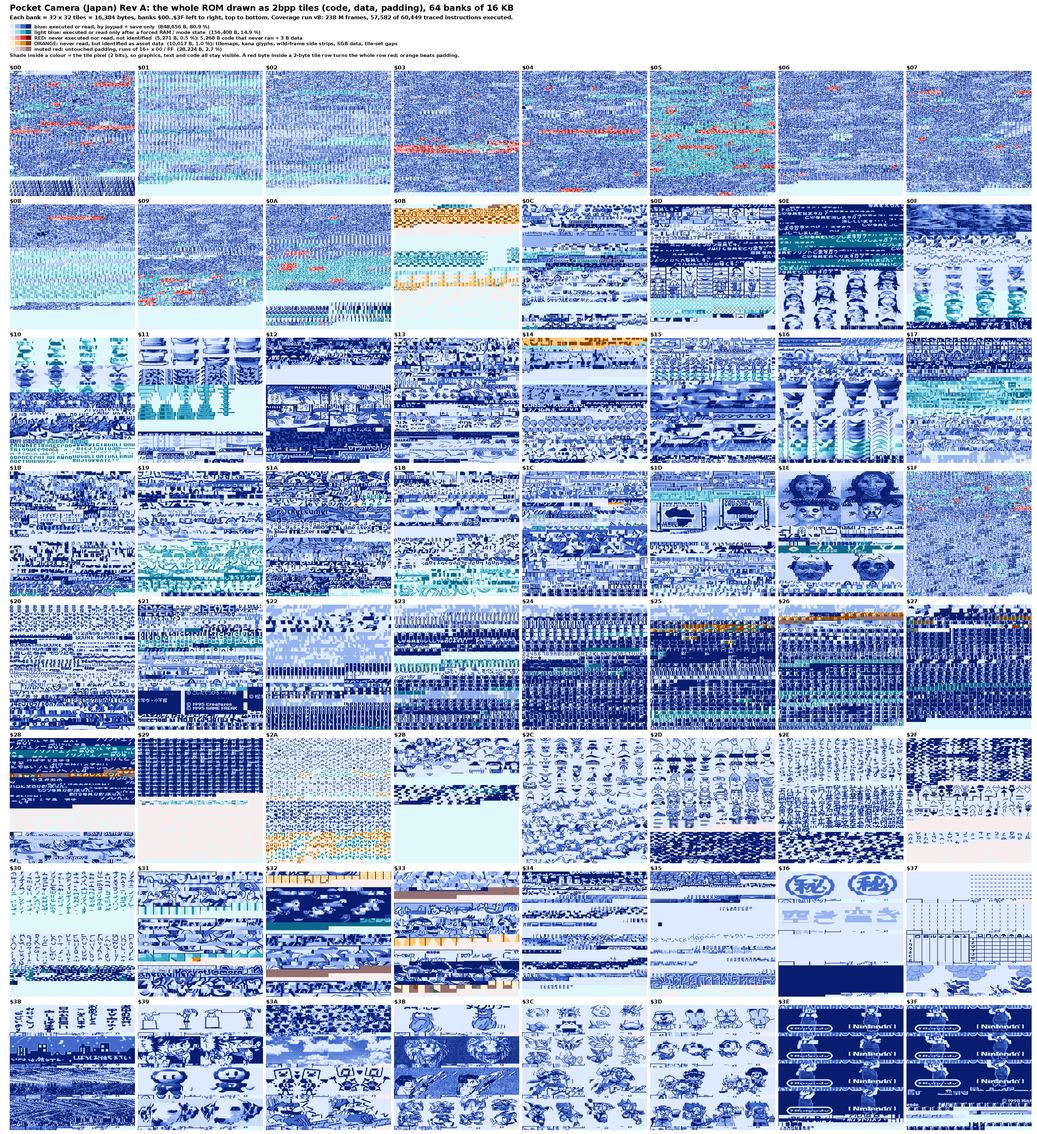
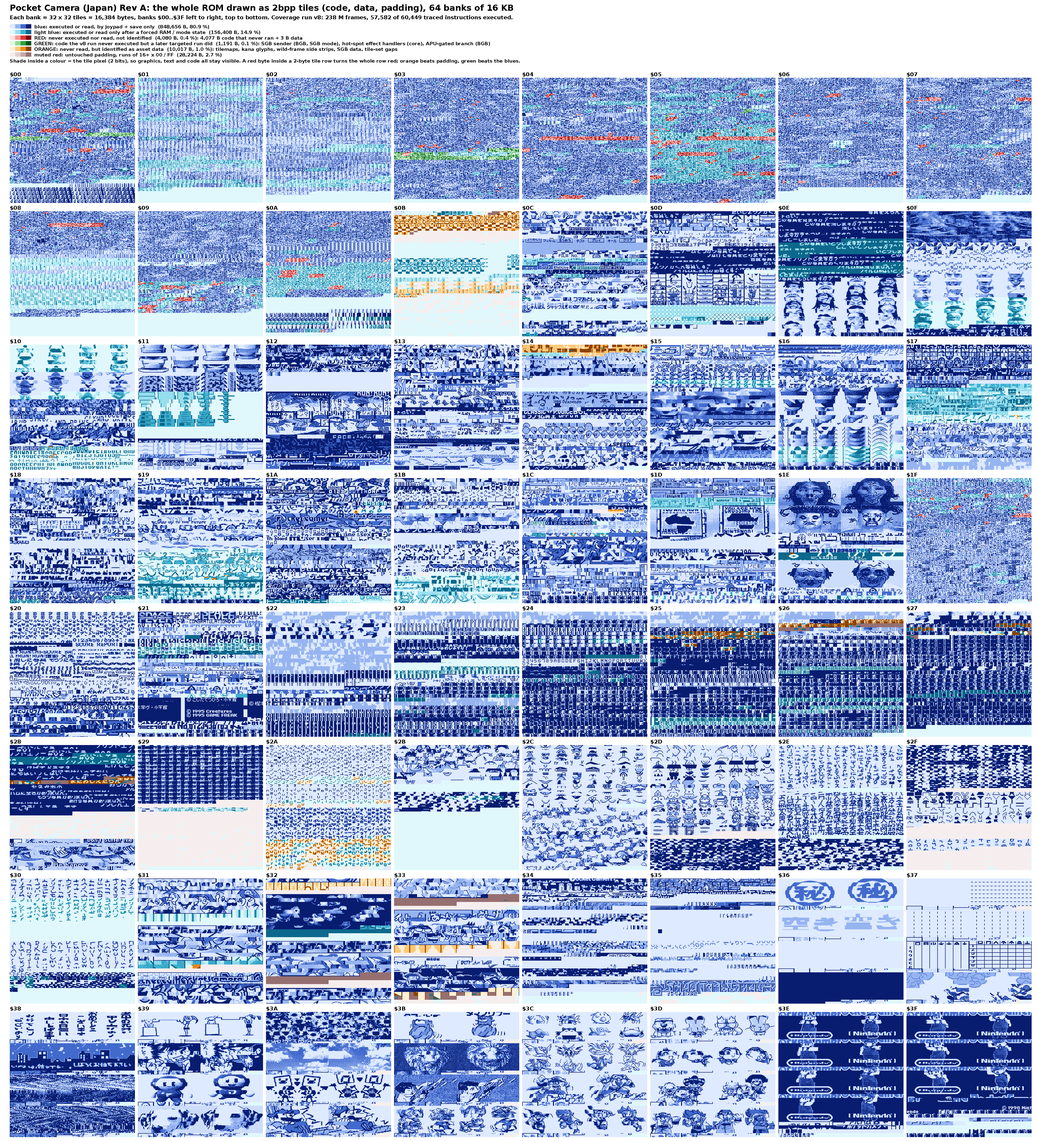
Show which never-run code later runs executed: green class on the map, README 16.14
"Never executed" in the v8 merge is not "unreachable". 1,191 of the 5,268 B of
class N were executed by runs made after the merge:

* BGB with SystemMode=2: the whole SGB sender 00:1D38-1EA3 (346 B, 50 block
  heads of trace_report.json).
* BGB, music-editor corpus: the six APU-gated heads 05:517D-519B, 05:5249 (37 B).
* the core, hotspot_effects.py: hot spot armed by a WRAM poke, effect values
  0-15 (808 B in 03:657F-69F4). The tool now writes the executed ranges.

The printer runs of 17.1-17.6 hit no class-N byte. witness_map.py writes
assets/witness_jp.csv (11 ranges, evidence C); rom_reach_map.py draws them in
green; the red falls from 5,271 B to 4,080 B. README 16.14 gives what is left
by bank and the largest clusters, and the next steps (static dispatch-domain
proof for the never-selected slots, targeted runs gate by gate).

Claude-Session: https://claude.ai/code/session_01FyVRmHfUqNeQ8ayUFB5i6z

diff --git a/tcrf_check/tools/rom_reach_map.py b/tcrf_check/tools/rom_reach_map.py
@@ -2,8 +2,9 @@
 """Whole JP ROM as 2bpp tiles (code and everything else), coloured by what the v8 coverage run reached.
 blue = executed or read by a run (dark: joypad + save only; light: only after a forced RAM / mode state), red = never executed nor read
 (including traced code that never ran), orange = never read but identified as asset data (assets/asset_map_jp.csv, evidence I or C per row),
+green = code the v8 run never executed but a later targeted run did (assets/witness_jp.csv: BGB in SGB mode, the hot-spot effect test, the APU-gated branch),
 muted red = untouched padding (runs >= 16 of 00 / FF).
-usage: rom_reach_map.py OUT.png [--rom pocketcamera_jp.gb] [--map coverage/results/report_v8/rom_map.csv] [--assets assets/asset_map_jp.csv | none]
+usage: rom_reach_map.py OUT.png [--rom pocketcamera_jp.gb] [--map coverage/results/report_v8/rom_map.csv] [--assets assets/asset_map_jp.csv | none] [--witness assets/witness_jp.csv | none]
 The ROM is not in the repository (md5 fdcfe686cf4df461e870b6e53b2b5a8b); the byte-class map is (written by coverage/tools/rom_map.py from the v8 merged coverage)."""
 import sys, os, csv
 import numpy as np
@@ -14,7 +15,7 @@ def opt(n, d):
     if n in a: i = a.index(n); v = a[i + 1]; del a[i:i + 2]; return v
     return d
 ROM = opt('--rom', 'pocketcamera_jp.gb'); MAP = opt('--map', os.path.join(REPO, 'coverage', 'results', 'report_v8', 'rom_map.csv'))
-ASSETS = opt('--assets', os.path.join(REPO, 'assets', 'asset_map_jp.csv')); OUT = a[0]
+ASSETS = opt('--assets', os.path.join(REPO, 'assets', 'asset_map_jp.csv')); WIT = opt('--witness', os.path.join(REPO, 'assets', 'witness_jp.csv')); OUT = a[0]
 rom = np.frombuffer(open(ROM, 'rb').read(), np.uint8); N = len(rom)
 cls = np.zeros(N, np.uint8)
 for r in csv.DictReader(open(MAP)):
@@ -28,7 +29,13 @@ while i < N:
     if j - i >= 16 and rb[i] in (0, 255): pad[i:j] = True
     i = j
 C = lambda ch: cls == ord(ch)
-red = C('N') | C('U'); forced = C('F') | C('r'); organic = C('C') | C('R') | C('T')
+wit = np.zeros(N, bool)         # class N bytes that a later targeted run executed (assets/witness_jp.csv)
+if WIT != 'none' and os.path.exists(WIT):
+    for r in csv.DictReader(open(WIT)):
+        b = int(r['bank'], 16); o1 = b * 0x4000 + (int(r['start'], 16) - 0x4000 if b else int(r['start'], 16)); o2 = b * 0x4000 + (int(r['end'], 16) - 0x4000 if b else int(r['end'], 16))
+        wit[o1:o2 + 1] = True
+wit &= C('N')
+red = (C('N') & ~wit) | C('U'); forced = C('F') | C('r'); organic = C('C') | C('R') | C('T')
 # bytes of the never-read data that assets/asset_map_jp.csv labels (padding stays padding)
 ident = np.zeros(N, bool)
 if ASSETS != 'none' and os.path.exists(ASSETS):
@@ -36,10 +43,10 @@ if ASSETS != 'none' and os.path.exists(ASSETS):
         b = int(r['bank'], 16); o1 = b * 0x4000 + (int(r['start'], 16) - 0x4000 if b else int(r['start'], 16)); o2 = b * 0x4000 + (int(r['end'], 16) - 0x4000 if b else int(r['end'], 16))
         ident[o1:o2 + 1] = True
 ident &= C('U') & ~pad
-# category per byte: 0 organic blue, 1 forced-only light blue, 2 red, 3 untouched padding, 4 never read but identified as asset data (orange)
-cat = np.zeros(N, np.uint8); cat[forced] = 1; cat[red] = 2; cat[C('U') & pad] = 3; cat[ident] = 4
-# category per 2-byte tile row: the worst of the two bytes (red > identified > padding > forced > organic) so that a red byte is never hidden
-RANK = np.array([0, 1, 4, 2, 3]); BACK = np.array([0, 1, 3, 4, 2])        # category -> rank, rank -> category
+# category per byte: 0 organic blue, 1 forced-only light blue, 2 red, 3 untouched padding, 4 never read but identified as asset data (orange), 5 executed by a later targeted run (green)
+cat = np.zeros(N, np.uint8); cat[forced] = 1; cat[red] = 2; cat[C('U') & pad] = 3; cat[ident] = 4; cat[wit] = 5
+# category per 2-byte tile row: the worst of the two bytes (red > identified > padding > green > forced > organic) so that a red byte is never hidden
+RANK = np.array([0, 1, 5, 3, 4, 2]); BACK = np.array([0, 1, 5, 3, 4, 2])        # category -> rank, rank -> category
 rowcat = BACK[np.maximum(RANK[cat[0::2]], RANK[cat[1::2]])].reshape(-1, 8)  # (tiles, 8 rows)
 t = rom.reshape(-1, 8, 2); lo = t[:, :, 0]; hi = t[:, :, 1]
 sh = np.zeros((len(t), 8, 8), np.uint8)
@@ -50,11 +57,12 @@ FAM = [[(222, 234, 255), (150, 180, 240), (66, 106, 205), (8, 28, 112)],        
        [(224, 248, 252), (150, 222, 238), (64, 176, 208), (12, 104, 140)],      # forced only: light blue / cyan
        [(255, 224, 224), (248, 150, 150), (222, 52, 52), (120, 0, 0)],          # never executed nor read: red
        [(246, 238, 238), (226, 206, 206), (198, 168, 168), (150, 112, 112)],    # untouched padding: muted red
-       [(255, 240, 214), (252, 200, 120), (240, 140, 20), (140, 66, 0)]]        # never read, identified as asset data: orange
-BG, INK = 20, 21
+       [(255, 240, 214), (252, 200, 120), (240, 140, 20), (140, 66, 0)],        # never read, identified as asset data: orange
+       [(226, 246, 226), (150, 214, 150), (48, 160, 64), (0, 84, 24)]]          # never run by v8, run by a later targeted run: green
+BG, INK = 24, 25
 pal = [c for f in FAM for c in f] + [(255, 255, 255), (0, 0, 0)]
 banks = N // 0x4000; per = pix.reshape(banks, 32, 32, 8, 8).transpose(0, 1, 3, 2, 4).reshape(banks, 256, 256)
-S = 2; GX, GY, PADX, PADY, TOP, LEFT = 12, 34, 12, 34, 262, 40
+S = 2; GX, GY, PADX, PADY, TOP, LEFT = 12, 34, 12, 34, 290, 40
 W = LEFT + 8 * (256 * S + GX) + 10; H = TOP + 8 * (256 * S + GY) + 10
 canvas = np.full((H, W), BG, np.uint8)
 for b in range(banks):
@@ -69,21 +77,22 @@ def font(sz):
 f1, f2, f3 = font(34), font(22), font(19)
 n = lambda m: int(m.sum())
 tot = N; nonpad = tot - n(pad)
-r_pad = n(C('U') & pad); r_code = n(C('N')); r_ident = n(ident); r_bright = n(red) - r_pad - r_ident
+r_pad = n(C('U') & pad); r_code = n(C('N') & ~wit); r_ident = n(ident); r_wit = n(wit); r_bright = n(red) - r_pad - r_ident
 d.text((LEFT, 12), 'Pocket Camera (Japan) Rev A: the whole ROM drawn as 2bpp tiles (code, data, padding), 64 banks of 16 KB', fill=INK, font=f1)
 d.text((LEFT, 58), 'Each bank = 32 x 32 tiles = 16,384 bytes, banks $00..$3F left to right, top to bottom. Coverage run v8: 238 M frames, 57,582 of 60,449 traced instructions executed.', fill=INK, font=f2)
 items = [(0, 'blue: executed or read, by joypad + save only  (%s B, %.1f %%)' % (format(n(organic), ','), 100 * n(organic) / tot)),
          (1, 'light blue: executed or read only after a forced RAM / mode state  (%s B, %.1f %%)' % (format(n(forced), ','), 100 * n(forced) / tot)),
          (2, 'RED: never executed nor read, not identified  (%s B, %.1f %%): %s B code that never ran + %s B data' % (format(r_bright, ','), 100 * r_bright / tot, format(r_code, ','), format(r_bright - r_code, ','))),
+         (5, 'GREEN: code the v8 run never executed but a later targeted run did  (%s B, %.1f %%): SGB sender (BGB, SGB mode), hot-spot effect handlers (core), APU-gated branch (BGB)' % (format(r_wit, ','), 100 * r_wit / tot)),
          (4, 'ORANGE: never read, but identified as asset data  (%s B, %.1f %%): tilemaps, kana glyphs, wild-frame side strips, SGB data, tile-set gaps' % (format(r_ident, ','), 100 * r_ident / tot)),
          (3, 'muted red: untouched padding, runs of 16+ x 00 / FF  (%s B, %.1f %%)' % (format(r_pad, ','), 100 * r_pad / tot))]
 for k, (c, txt) in enumerate(items):
     y = 98 + k * 23
     for s in range(4): d.rectangle([LEFT + s * 22, y + 1, LEFT + s * 22 + 21, y + 18], fill=c * 4 + s)
     d.text((LEFT + 100, y), txt, fill=INK, font=f3)
-d.text((LEFT, 98 + 5 * 23 + 2), 'Shade inside a colour = the tile pixel (2 bits), so graphics, text and code all stay visible. A red byte inside a 2-byte tile row turns the whole row red; orange beats padding.', fill=INK, font=f3)
+d.text((LEFT, 98 + 6 * 23 + 2), 'Shade inside a colour = the tile pixel (2 bits), so graphics, text and code all stay visible. A red byte inside a 2-byte tile row turns the whole row red; orange beats padding, green beats the blues.', fill=INK, font=f3)
 for b in range(banks):
     gx = LEFT + (b % 8) * (256 * S + GX); gy = TOP + (b // 8) * (256 * S + GY)
     d.text((gx, gy + 1), '$%02X' % b, fill=INK, font=f2)
 img.save(OUT, optimize=True)
-print(img.size, os.path.getsize(OUT), 'red', r_bright, 'identified', r_ident, 'organic', n(organic), 'forced', n(forced), 'pad red', r_pad)
+print(img.size, os.path.getsize(OUT), 'red', r_bright, 'identified', r_ident, 'witnessed', r_wit, 'organic', n(organic), 'forced', n(forced), 'pad red', r_pad)

diff --git a/tcrf_check/tools/witness_map.py b/tcrf_check/tools/witness_map.py
@@ -1,0 +1,59 @@
+#!/usr/bin/env python3
+"""Code that the v8 coverage run never executed (class N) but a later targeted run did: writes assets/witness_jp.csv.
+usage: witness_map.py OUT.csv [--map coverage/results/report_v8/rom_map.csv] [--rom pocketcamera_jp.gb]
+Witnesses (all outside the v8 merge):
+  sgb      BGB with SystemMode=2 (Super Game Boy): the 50 block heads of the SGB sender 00:1D38-1EA0 (tcrf_check/assets/bgb_retrace/trace_report.json, "sgb_only_heads"; README 17.7)
+  apu      BGB, music-editor corpus: the 6 heads my core never executed because it does not emulate NR52 / NR12 ("contradictions"; README 17.7)
+  hotspot  my core, tcrf_check/tools/hotspot_effects.py: hot spot 0 of the displayed photo armed by a WRAM poke of the mirror $D643-$D65C, then a real A press, for the 16 effect values;
+           the bytes executed beyond the replay are in tcrf_check/assets/hotspot_effects/exec_ranges.csv (README 13.4 point 5, 16.8)
+A BGB head hit means the whole block ran (blocks.py: straight line up to the next head or terminator). Only bytes of class N are written; the printer runs of 17.1-17.6
+(tcrf_check/assets/bgb_retrace/printer_heads) hit none."""
+import sys, os, csv, json
+import numpy as np
+HERE = os.path.dirname(os.path.abspath(__file__)); REPO = os.path.dirname(os.path.dirname(HERE)); sys.path.insert(0, HERE)
+import blocks as B
+a = sys.argv[1:]
+def opt(n, d):
+    if n in a: i = a.index(n); v = a[i + 1]; del a[i:i + 2]; return v
+    return d
+MAP = opt('--map', os.path.join(REPO, 'coverage', 'results', 'report_v8', 'rom_map.csv')); ROM = opt('--rom', 'pocketcamera_jp.gb'); OUT = a[0]
+rom = open(ROM, 'rb').read(); trace = json.load(open(os.path.join(REPO, 'wram', 'trace_jp_v3.json')))
+heads, members, code = B.blocks(rom, trace)
+N = 1 << 20
+def flat(b, ad): return ad if (b == 0 and ad < 0x4000) else b * 0x4000 + ad - 0x4000
+cls = np.zeros(N, np.uint8)
+for r in csv.DictReader(open(MAP)):
+    cls[flat(int(r['bank'], 16), int(r['start'], 16)):][:int(r['length'])] = ord(r['class'])
+isN = cls == ord('N')
+rep = json.load(open(os.path.join(REPO, 'tcrf_check', 'assets', 'bgb_retrace', 'trace_report.json')))
+def from_heads(hs):
+    m = np.zeros(N, bool)
+    for k in hs:
+        b, ad = k.split(':'); key = (int(b, 16), int(ad, 16))
+        assert key in members, k
+        for bb, aa, ln in members[key]: m[flat(bb, aa):flat(bb, aa) + ln] = True
+    return m
+W = [('sgb', 'BGB SystemMode=2 (Super Game Boy): block heads of the SGB sender', 'C', from_heads(rep['sgb_only_heads']['heads'])),
+     ('apu', 'BGB, music-editor corpus: branch on NR52 bit 0 / NR12 that my core cannot take', 'C', from_heads(list(rep['contradictions'])))]
+hm = np.zeros(N, bool)
+for r in csv.DictReader(open(os.path.join(REPO, 'tcrf_check', 'assets', 'hotspot_effects', 'exec_ranges.csv'))):
+    o1 = flat(int(r['bank'], 16), int(r['start'], 16)); o2 = flat(int(r['bank'], 16), int(r['end'], 16)); hm[o1:o2 + 1] = True
+W.append(('hotspot', 'my core, hot spot armed by a WRAM poke + real A press, effect values 0-15', 'C', hm))
+rows = []; seen = np.zeros(N, bool)
+for name, desc, ev, m in W:
+    m = m & isN & ~seen; seen |= m
+    idx = np.flatnonzero(m); runs = []
+    for o in idx:
+        if runs and runs[-1][1] == o: runs[-1][1] = o + 1
+        else: runs.append([o, o + 1])
+    for s, e in runs:
+        for lo, hi in ((s, e),):
+            b = lo >> 14 if lo >= 0x4000 else 0
+            while lo < hi:
+                top = min(hi, (b + 1) * 0x4000) if b else min(hi, 0x4000)
+                ad = lo if b == 0 else 0x4000 + (lo & 0x3FFF)
+                rows.append(['%02X' % b, '%04X' % ad, '%04X' % (ad + top - lo - 1), top - lo, name, ev, desc]); lo = top; b += 1 if lo >= 0x4000 else 0
+    print('%-8s %5d bytes of class N  (%s)' % (name, int(m.sum()), desc))
+with open(OUT, 'w', newline='') as fh:
+    w = csv.writer(fh, lineterminator='\n'); w.writerow(['bank', 'start', 'end', 'bytes', 'witness', 'evidence', 'description']); w.writerows(rows)
+print('class N bytes in the v8 map: %d, with a witness: %d, left: %d; %d ranges -> %s' % (int(isN.sum()), int(seen.sum()), int(isN.sum() - seen.sum()), len(rows), OUT))

diff --git a/tcrf_check/tools/hotspot_effects.py b/tcrf_check/tools/hotspot_effects.py
@@ -12,6 +12,8 @@ corpus = sys.argv[2] if len(sys.argv) > 2 else 'unlock_runs/f1_organic/corpus.js
 C = lib.Corpus(corpus); i = C.best((0x0C, 3)); g.set_organic(1); C.replay(i); g.run(30)
 print('state', lib.cur(), 'pointer D667/D668 =', g.peek(0xD667), g.peek(0xD668), 'D500', g.peek(0xD500))
 snap = g.snapshot(); EX = g.cov_exec(); OEX = g.org_exec()
+import numpy as np
+EX0 = np.array(EX, copy=True) != 0      # executed before the test (the replay of the corpus entry)
 H = [0x6625, 0x6642, 0x66AF, 0x66DC, 0x67D5, 0x6801, 0x6838, 0x68A4, 0x6901, 0x6983]
 def off(a): return 3 * 0x4000 - 0x4000 + a
 res = {}
@@ -30,3 +32,13 @@ for k in range(16):
     res[k] = dict(mode_state=list(lib.cur()), newly=new)
     Image.fromarray(R.screen(g)).save('%s/effect_%02d.png' % (out, k))
 json.dump(res, open(out + '/results.json', 'w'))
+# bytes this test executed beyond the replay, as ranges (the core marks every byte of an executed instruction): witness_map.py reads them
+new = np.flatnonzero((np.array(EX, copy=True) != 0) & ~EX0); rows = []
+for o in new:
+    b = int(o) >> 14 if o >= 0x4000 else 0; a = int(o) if b == 0 else 0x4000 + (int(o) & 0x3FFF)
+    if rows and rows[-1][0] == b and rows[-1][2] == a - 1: rows[-1][2] = a
+    else: rows.append([b, a, a])
+with open(out + '/exec_ranges.csv', 'w') as fh:
+    fh.write('bank,start,end\n')
+    for b, a, e in rows: fh.write('%02X,%04X,%04X\n' % (b, a, e))
+print('executed beyond the replay: %d bytes in %d ranges -> exec_ranges.csv' % (len(new), len(rows)))

diff --git a/README.md b/README.md
@@ -15,7 +15,7 @@ identical", was wrong and is withdrawn). The Zelda-edition ROM was not examined.
 
 ![](/jp_rom_reachability_map.png)
 
-*What the map shows:* the whole Japanese ROM drawn as 2bpp tiles (64 banks of 32 × 32 tiles; code, data and padding alike). Blue = executed or read by the v8 coverage run (dark: joypad and save only, light: only after a forced RAM or mode state), **red = never executed nor read and not identified** (5,271 bytes, 0.5 %: 5,268 B of code that never ran + 3 B), **orange = never read but identified as asset data** (10,017 B, 1.0 %: wild-frame side strips, kana glyphs, tilemaps, SGB data, tile-set gaps; §16.13, `assets/asset_map_jp.csv`, evidence I except the wild-frame strips and the SGB border data, C), muted red = untouched padding (28,224 B). Generated by `tcrf_check/tools/rom_reach_map.py` from `coverage/results/report_v8/rom_map.csv` and `assets/asset_map_jp.csv` (§13, §15.1, §16.13); in the earlier version of this map all 15,288 B were red. There is no equivalent run for the international ROM yet: its code is a different build (§16.1).
+*What the map shows:* the whole Japanese ROM drawn as 2bpp tiles (64 banks of 32 × 32 tiles; code, data and padding alike). Blue = executed or read by the v8 coverage run (dark: joypad and save only, light: only after a forced RAM or mode state), **red = never executed nor read and not identified** (4,080 bytes, 0.4 %: 4,077 B of code that no run has executed + 3 B), **green = code the v8 run never executed but a later targeted run did** (1,191 B, 0.1 %: the SGB sender in BGB, the hot-spot effect handlers, the APU-gated branch; §16.14, `assets/witness_jp.csv`, C), **orange = never read but identified as asset data** (10,017 B, 1.0 %: wild-frame side strips, kana glyphs, tilemaps, SGB data, tile-set gaps; §16.13, `assets/asset_map_jp.csv`, evidence I except the wild-frame strips and the SGB border data, C), muted red = untouched padding (28,224 B). Generated by `tcrf_check/tools/rom_reach_map.py` from `coverage/results/report_v8/rom_map.csv`, `assets/asset_map_jp.csv` and `assets/witness_jp.csv` (§13, §15.1, §16.13, §16.14); in the earlier version of this map all 15,288 B were red. There is no equivalent run for the international ROM yet: its code is a different build (§16.1).
 
 ## Contents
 
@@ -36,7 +36,7 @@ identical", was wrong and is withdrawn). The Zelda-edition ROM was not examined.
 | 13 | **Emulator coverage run** — what executes, what never does and why, the 14 unreferenced data banks, dead-root verdict |
 | 14 | **Game Link Cable photo exchange** — byte-level protocol sniffed on two emulated cameras, roles, commands, thumbnails, abort/cancel/time-out, and the SRAM signature of an exchanged photo |
 | 15 | **TCRF and unlock cross-check** — what the unlocking saves reach (credits, CoroCoro, Album B, stamps, mini-games), the documented-content checklist (54 items), re-classification of code that never ran (the hold-A stamp branch, the hot-spot effect handlers), mode names from screenshots, asset inventory |
-| 16 | **Menu names, the international ROM, BGB cross-validation** — the 34 modes named from the screens (Japanese / international / the Funtography guide), the mirrored main menu, the two ROMs are different builds, Album B (8 vs 14 conditions) and the CoroCoro flag in the international ROM, BGB results (sweep, credits gate, tag, Pokémon pages, hold-A, hot-spots, link, gender bits), hot-spot effect behaviour, the 20 Pokémon stamps, the five Funtography flowcharts walked in BGB, the CoroCoro content on the international build (§16.12), **what the never-read data is** (§16.13: wild-frame side strips, glyph banks, tilemaps, the SGB border rebuilt from bank `$0B` and matched to BGB; the orange of the map) |
+| 16 | **Menu names, the international ROM, BGB cross-validation** — the 34 modes named from the screens (Japanese / international / the Funtography guide), the mirrored main menu, the two ROMs are different builds, Album B (8 vs 14 conditions) and the CoroCoro flag in the international ROM, BGB results (sweep, credits gate, tag, Pokémon pages, hold-A, hot-spots, link, gender bits), hot-spot effect behaviour, the 20 Pokémon stamps, the five Funtography flowcharts walked in BGB, the CoroCoro content on the international build (§16.12), **the code that later runs executed and what is left** (§16.14), **what the never-read data is** (§16.13: wild-frame side strips, glyph banks, tilemaps, the SGB border rebuilt from bank `$0B` and matched to BGB; the orange of the map) |
 | 17 | **Printing in BGB** — a printer helper for BGB (link protocol, status model), the print screens (single photo, the Start option = the 「Camera コメント」 card with its tag-field mapping, several photos, the TRIPY-H score), and the **BGB re-trace of the coverage run** (81 % of the core's blocks re-hit, SGB-only and APU-gated blocks, where the two disagree) |
 | Appendix | Tools |
 
@@ -3173,7 +3173,7 @@ Table (one row per box of the charts; the node ids are the keys of `assets/guide
 
 **The owner's readings (Sunday 2026-10-11), recorded as I until checked:** (1) banks `$31`, `$32`, `$33` are pure assets, the red areas are the lateral borders of the wild frames just above, and the cause is a quirk of my printer emulator code; (2) banks `$28` and `$2A` are pure assets of the Japanese alphabet, with the same function for the unknown tiles as for the known assets around them; (3) the unknown areas of banks `$10`, `$14`, `$17`, `$19`, `$1A`, `$1C`, `$1E` are assets too; (4) the untouched parts of banks `$25`, `$26`, `$27` are probably tilemaps; (5) bank `$0B` is Super Game Boy data.
 
-**Result: all five hold** (with two nuances: `$2A` also holds Latin letters, and the second half of `$28` is the credits ending picture, which is read). The 10,020 non-padding bytes of *data* that the v8 run never read are now labelled, 10,017 of them in `assets/asset_map_jp.csv` (95 ranges, written by `tcrf_check/tools/asset_map_build.py`); the 3 left are inside the code bank `$1F`. On the map they are orange; the **red that remains is 5,271 B** (5,268 B of code that never ran, §13, + those 3 B). "Identified" means: *what the bytes are*, not *that the game can show them*. Evidence is **I** (rendering, structure, community sheets) except for the wild-frame strips and the SGB border data (**C**, BGB).
+**Result: all five hold** (with two nuances: `$2A` also holds Latin letters, and the second half of `$28` is the credits ending picture, which is read). The 10,020 non-padding bytes of *data* that the v8 run never read are now labelled, 10,017 of them in `assets/asset_map_jp.csv` (95 ranges, written by `tcrf_check/tools/asset_map_build.py`); the 3 left are inside the code bank `$1F`. On the map they are orange; the **red that remained was 5,271 B** (5,268 B of code that never ran, §13, + those 3 B; §16.14 takes 1,191 B of the code out of it). "Identified" means: *what the bytes are*, not *that the game can show them*. Evidence is **I** (rendering, structure, community sheets) except for the wild-frame strips and the SGB border data (**C**, BGB).
 
 | region (never-read, non-padding bytes) | bytes | what it is | tag |
 |---|---|---|---|
@@ -3235,6 +3235,23 @@ The windows **overlap** (the PAL_TRN window contains the CHR_TRN packet and the 
 The matches do not name anything the code does not already say; they tell which sheet a ROM range is. Windows of dithered photos match weakly (many photos share dither patterns), so only clusters of 30 or more windows are kept.
 
 **Not done / open.** (a) Blanking was not run for wild frames 01 and 04 (their strips are read in forced runs). (b) Whether the 48 blank tiles of each sheet are used by anything (the on-screen frame, a print mode) was not checked; no print path changed when they were blanked. (c) The tilemaps of `25`-`27` were not rendered with a tile set; no copy site for them was found. (d) The glyph banks were not transcribed glyph by glyph; whether the unread kana forms are reachable by a stamp page nobody walked, or truly unused (the sheet says "Unused?"), is open (?). (e) The SGB DATA_SND payload was not disassembled or run (the border itself is C).
+
+### 16.14 Code the v8 run never executed: what later runs already executed (green on the map), and what is left
+
+"Never executed" in the v8 merge is not "unreachable": three runs made after the merge executed part of it. Each was turned into bytes with `tcrf_check/tools/blocks.py` (a BGB block-head hit means the whole straight-line block ran) or from the core's executed-byte array, and intersected with the 5,268 B of class N of `coverage/results/report_v8/rom_map.csv` by `tcrf_check/tools/witness_map.py` (output: `assets/witness_jp.csv`, 11 ranges). Evidence **C** for all three.
+
+| witness | bytes of class N | what ran | source |
+|---|---:|---|---|
+| BGB, `SystemMode=2` (Super Game Boy) | 346 | the whole SGB sender `00:1D38-1EA3` (50 block heads, 144 instructions; §17.7, §16.13 (5)) | `tcrf_check/assets/bgb_retrace/trace_report.json` (`sgb_only_heads`) |
+| BGB, music-editor corpus | 37 | `05:517D-519B`, `05:5249-524E`: the branch on NR52 bit 0 / NR12 that my core cannot take (it does not emulate the sound registers; §17.7) | same file (`contradictions`) |
+| my core, hot-spot test | 808 | the hot-spot effect code reached through the table `03:655D` (the handlers of effect values 0-8 and the code before them): `03:657F-6624`, `6642-669E`, `66AF-66DB`, `67D5-695C`, `697D-69E6`, `69EF-69F4`. `tcrf_check/tools/hotspot_effects.py` arms hot spot 0 of the displayed photo by a WRAM poke of the mirror `$D643-$D65C` and presses A for each effect value 0-15 (the effects run on screen in BGB too, §16.8, but that run was not traced) | `tcrf_check/assets/hotspot_effects/exec_ranges.csv` (new: bytes executed beyond the replay, 1,307 B in 16 ranges) |
+| **total** | **1,191** (22.6 %) | | |
+
+The BGB printer runs of §17.1-17.6 (`tcrf_check/assets/bgb_retrace/printer_heads`) hit **no** class-N byte: they only re-hit heads the core had already executed. So the printer-state code is still without a witness. The hot-spot witness is my core with a RAM state set by a poke, not BGB and not a real save with hot spots; the BGB evidence for the same effects is the screenshot of §16.8.
+
+**What is left: 4,080 B (0.4 % of the ROM), red on the map** = 4,077 B of code + the 3 B of data in `$1F`. By bank: `$05` 1,113 · `$04` 615 · `$00` 596 · `$0A` 407 · `$09` 364 · `$07` 264 · `$08` 235 · `$1F` 189 · `$03` 138 · `$06` 138 · `$02` 18 (179 clusters; 125 of them are 16 B or less and hold 639 B). The largest: `04:5E46-5FE0` (407 B, the stamp-tool routine behind `ret nz` at `04:5E4B`, gate not identified), `05:5EC0-6028` (361 B, dispatch slots 23-26 of `05:5A67`), `08:46A3-477E` (220 B, `$D806` bit 0), `05:6670-670D` (158), `00:0758-07EB` (146, dead root), `05:71C3-722B` (105), `04:7C9D-7CF6` (90, dead root), `00:1A7B-1AD1` (87, printer status `$DC27`), `0A:5853-58A9` (87, effect-table index 13). Causes are those of §13.4 (printer states, dispatch slots no input selected, dead roots, gates whose variable is not named).
+
+**Not done (the next steps, in this order).** (1) A static proof, per never-selected dispatch slot, of which values the index variable can take (and a scan of the ROM for any 16-bit word equal to a dead root's address), which would sort the remaining code into *reachable* and *unreachable* (I: computed jumps could hide a reference). (2) Targeted runs, one gate at a time, in order of bytes: the gating variable of `04:5E4B`, the `$D806` print flag with the BGB printer helper, the printer status values for `00:1A79`, the state values of the `05:5A67` and `09:5FE7` tables. (3) The index domain of the `0A:541A` effect table (§13.4 point 5).
 
 ## 17. Printing in BGB (printer helper), the print features, and the BGB coverage re-trace
 
@@ -3358,7 +3375,7 @@ The coverage claims of §13 therefore stand with these refinements: what my core
 - `tools/emu_calib_check.py` — PyBoy check of the calibration-record validity test with a given ROM and save (§11.9, point 2)
 - `tools/wram_readme.py` — renders the per-region CSV files of `wram/` as the condensed tables of §2
 - `tcrf_check/tools/rom_reach_map.py` — the reachability map at the top of this README: the whole ROM as 2bpp tiles, blue = reached by the v8 coverage run, red = never executed nor read, orange = never read but identified (`assets/asset_map_jp.csv`); `python3 rom_reach_map.py OUT.png --rom pocketcamera_jp.gb`
-- Never-read data (§16.13): `tcrf_check/tools/asset_map_build.py` (writes `assets/asset_map_jp.csv`), `render_marked_tiles.py` (contact sheet of a ROM range, never-read bytes tinted red, 2bpp or 1bpp), `bgb_print_wild.py` (prints one photo with a chosen wild frame in BGB with the printer helper; `--rom` takes a modified ROM), `wild_border_check.py` (printout vs sheet, and the blanking comparison), `sheet_tile_match.py` + `sheet_map_table.py` (community sprite sheets vs the ROM, `assets/spriter_sheet_map_jp.csv`), `sgb_border_check.py` (decodes the SGB packets of either ROM, rebuilds the border, compares it with a BGB capture or the community sheet) and `bgb_sgb_capture.sh` (BGB in SGB mode under Xvfb, whole-window screenshot)
+- Never-read data (§16.13): `tcrf_check/tools/asset_map_build.py` (writes `assets/asset_map_jp.csv`), `render_marked_tiles.py` (contact sheet of a ROM range, never-read bytes tinted red, 2bpp or 1bpp), `bgb_print_wild.py` (prints one photo with a chosen wild frame in BGB with the printer helper; `--rom` takes a modified ROM), `wild_border_check.py` (printout vs sheet, and the blanking comparison), `sheet_tile_match.py` + `sheet_map_table.py` (community sprite sheets vs the ROM, `assets/spriter_sheet_map_jp.csv`), `witness_map.py` (class-N bytes that a later run executed: `assets/witness_jp.csv`, the green of the map), `sgb_border_check.py` (decodes the SGB packets of either ROM, rebuilds the border, compares it with a BGB capture or the community sheet) and `bgb_sgb_capture.sh` (BGB in SGB mode under Xvfb, whole-window screenshot)
 - `wram/` — full per-region WRAM/HRAM write-ups (`wram_<region>.md`, evidence with `bank:addr` citations) and rows (`wram_<region>.csv`), the access tables and the traces
 - `coverage/` — emulator coverage run (§13): the native SM83 core `src/gbcov.c` + `gbcov.py`, 19 driver / analysis tools in `tools/` (fuzzer `coverage_run.py`, `sweep_auto.py`, `sweep_vars.py`, `settle_runs.py`, `long_runs.py`, `damaged_saves.py`, `make_hotspot_saves.py`, `replay_corpus.py`, `merge_states.py`, `coverage_report.py`, `rom_map.py`, `d1_map.py`, `gating_branches.py`, `state_graph.py`, `forced_legit.py`, `unexec_by_symbol.py`, `validate_calib.py`, `newcov.py`, `gbdis.py`), `final_merge.sh`, `results/` (merged coverage, report tables, corpus, logs), `saves/`, `d1sheets/`
 - `tools/tcrf_checklist.py COV.npz OUT.md OUT.csv` — builds the TCRF documented-content checklist with coverage computed from a merged `cov.npz` (§15.3)

diff --git a/CLAUDE.md b/CLAUDE.md
@@ -32,7 +32,7 @@ md5 `fdcfe686cf4df461e870b6e53b2b5a8b`; the international ROM is md5 `42d2f65e25
 
 ## Where things stand
 * Japanese ROM coverage (v8): 95.3 % of the 60,449 traced instructions executed, 82.7 % by joypad and save only; 1.5 % of the ROM (15,288 B) never executed nor read
-  (map at the top of the README): 5,268 B are code that never ran, 10,020 B are data that no run read, and **10,017 of those are identified** (wild-frame side strips, kana
+  (map at the top of the README): 5,268 B are code that never ran (**1,191 of them were run afterwards**: SGB sender in BGB, hot-spot effect handlers, the APU branch; green on the map, §16.14, `assets/witness_jp.csv`, so 4,080 B stay red), 10,020 B are data that no run read, and **10,017 of those are identified** (wild-frame side strips, kana
   glyph banks, BG tilemaps, SGB data, tile-set gaps: §16.13, `assets/asset_map_jp.csv`, orange on the map). The SGB border of both ROMs is rebuilt from bank `$0B` and equals BGB's (C, §16.13 (5)). Reassembles byte-exact; about 57 kB of data inside the code banks and most of the 52 data banks are still untyped (§1.2).
 * International ROM: no instrumented coverage run (a fuzz was started and stopped; `coverage/tools/coverage_run.py` needs a variant without the Japanese trace).
   Behavioural parity checked in BGB: all menu nodes of the five Funtography flowcharts on both ROMs (§16.11); CoroCoro content absent (§16.12).
